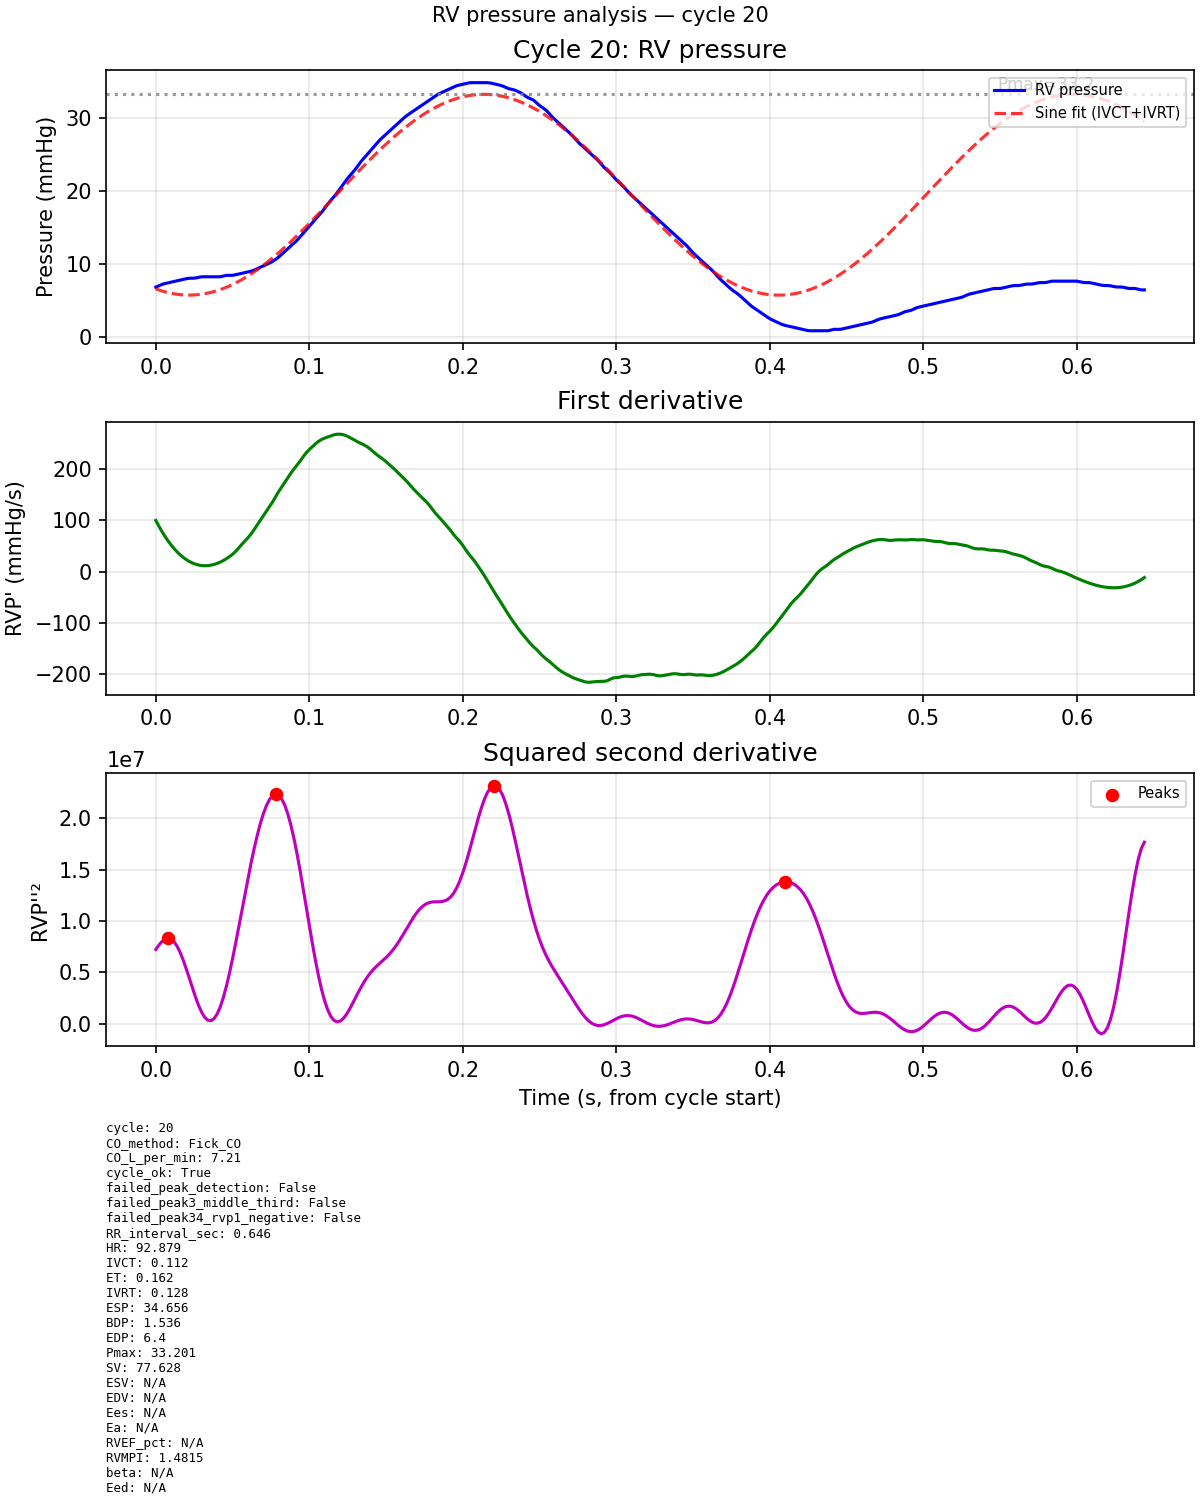
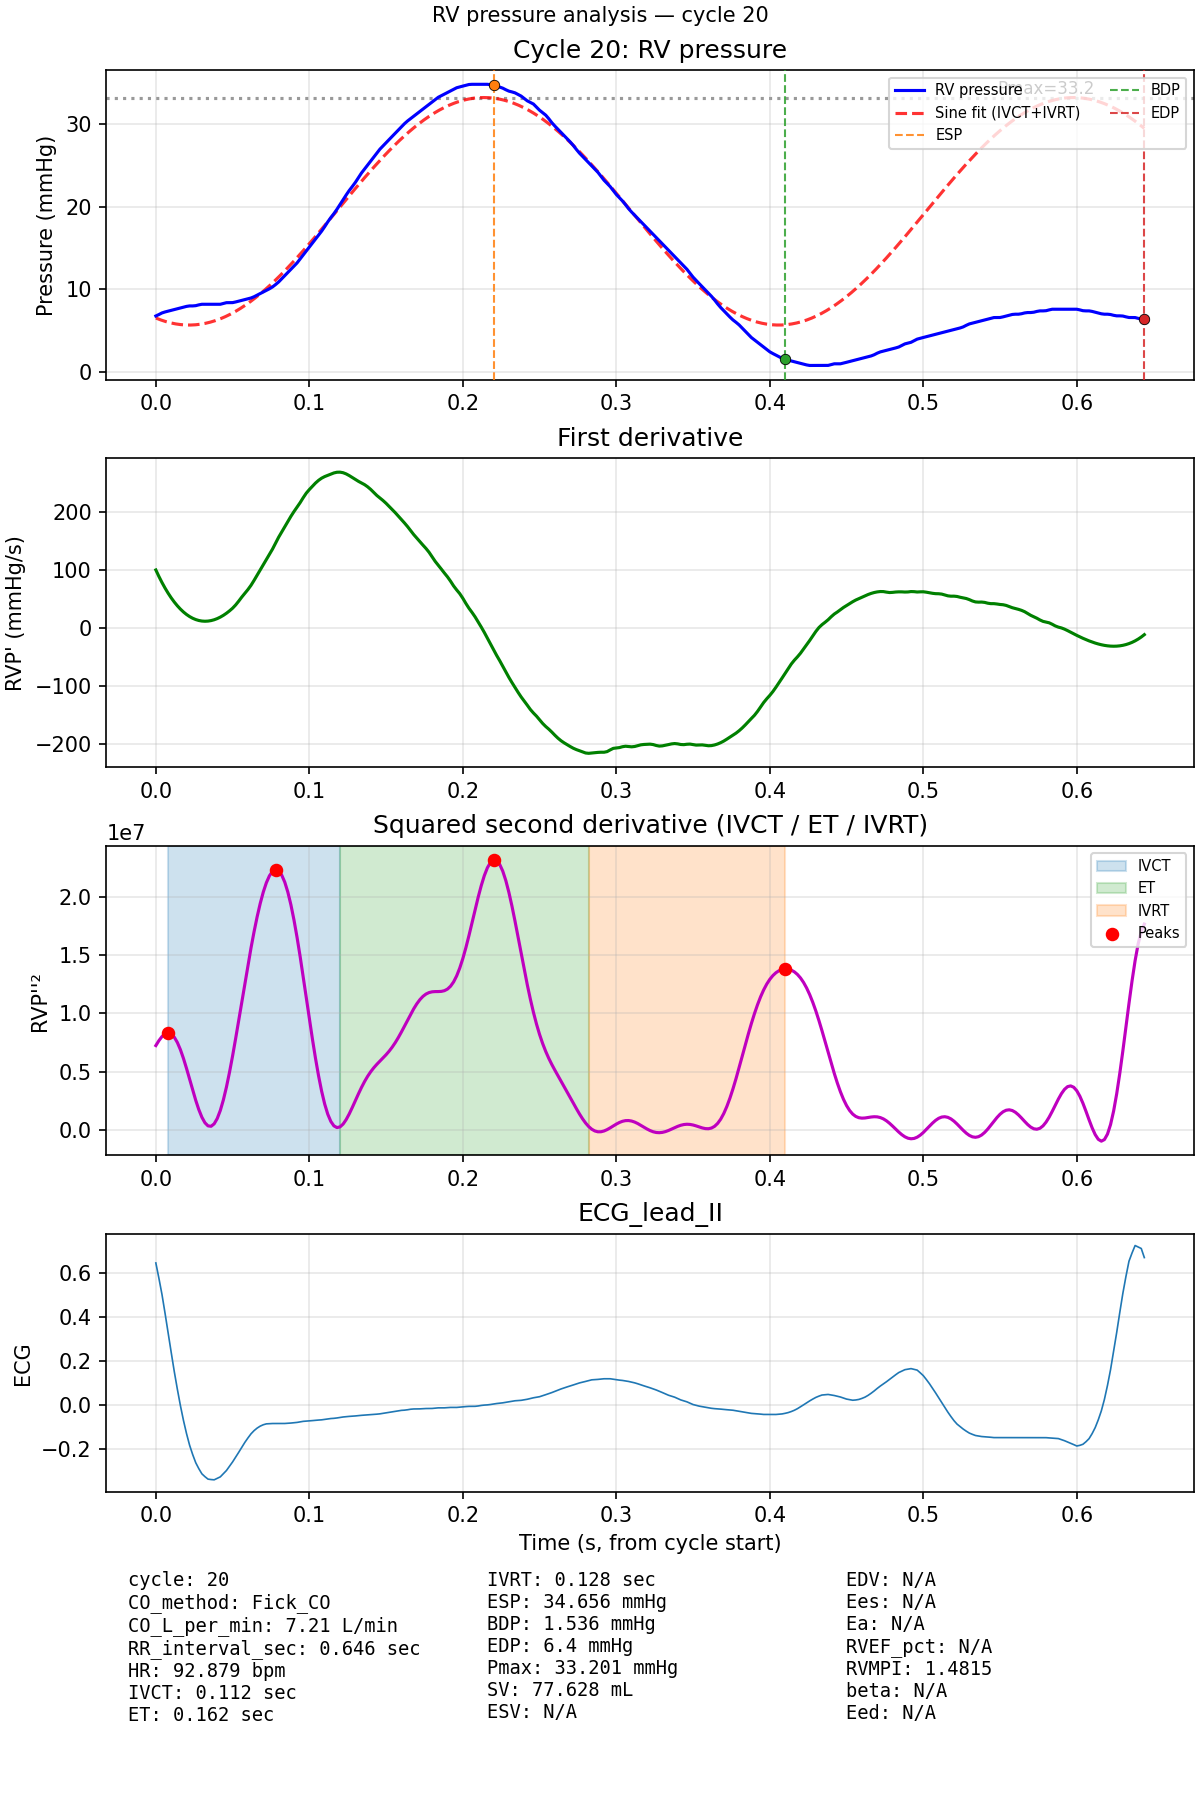
better annotations

diff --git a/scripts/analyze_rv_pressure.py b/scripts/analyze_rv_pressure.py
@@ -360,6 +360,11 @@ def _fit_pmax_ivct_ivrt(
         return np.nan, None, None
 
 
+# Keep b*max(esv,edv) below ~700 so np.exp does not overflow float64 (~709).
+_BETA_BRENTQ_HI_MAX = 10.0
+_BETA_EXP_ARG_CAP = 700.0
+
+
 def _solve_beta(esv: float, edv: float, edp_minus_bdp_plus_1: float) -> Optional[float]:
     """
     Solve for beta so P(V)=K*(exp(beta*V)-1) passes through (0,0), (ESV,1), (EDV, EDP-BDP+1)
@@ -371,9 +376,14 @@ def _solve_beta(esv: float, edv: float, edp_minus_bdp_plus_1: float) -> Optional
     def eq(b: float) -> float:
         return edp_minus_bdp_plus_1 * (np.exp(b * esv) - 1) - (np.exp(b * edv) - 1)
 
+    b_lo = 1e-6
+    vmax = max(esv, edv)
+    b_hi = min(_BETA_BRENTQ_HI_MAX, _BETA_EXP_ARG_CAP / vmax)
+    if b_hi <= b_lo:
+        return None
+
     try:
-        # beta positive, typically small
-        beta = brentq(eq, 1e-6, 10.0)
+        beta = brentq(eq, b_lo, b_hi)
         return float(beta)
     except Exception:
         return None
@@ -537,45 +547,46 @@ def segment_pressure_by_rr_with_fs(
     return segments
 
 
-_METRIC_KEYS_PNG: tuple[str, ...] = (
-    "cycle",
-    "CO_method",
-    "CO_L_per_min",
-    "cycle_ok",
-    "failed_peak_detection",
-    "failed_peak3_middle_third",
-    "failed_peak34_rvp1_negative",
-    "RR_interval_sec",
-    "HR",
-    "IVCT",
-    "ET",
-    "IVRT",
-    "ESP",
-    "BDP",
-    "EDP",
-    "Pmax",
-    "SV",
-    "ESV",
-    "EDV",
-    "Ees",
-    "Ea",
-    "RVEF_pct",
-    "RVMPI",
-    "beta",
-    "Eed",
+# Keys and unit suffixes for diagnostic PNG text (status flags omitted).
+_PNG_METRIC_KEYS_UNITS: tuple[tuple[str, str], ...] = (
+    ("cycle", ""),
+    ("CO_method", ""),
+    ("CO_L_per_min", "L/min"),
+    ("RR_interval_sec", "sec"),
+    ("HR", "bpm"),
+    ("IVCT", "sec"),
+    ("ET", "sec"),
+    ("IVRT", "sec"),
+    ("ESP", "mmHg"),
+    ("BDP", "mmHg"),
+    ("EDP", "mmHg"),
+    ("Pmax", "mmHg"),
+    ("SV", "mL"),
+    ("ESV", "mL"),
+    ("EDV", "mL"),
+    ("Ees", "mmHg/mL"),
+    ("Ea", "mmHg/mL"),
+    ("RVEF_pct", "%"),
+    ("RVMPI", ""),
+    ("beta", "1/mL"),
+    ("Eed", "mmHg/mL"),
 )
 
 
 def _metric_lines_for_png(row: dict[str, Any]) -> list[str]:
     lines: list[str] = []
-    for k in _METRIC_KEYS_PNG:
+    for k, unit in _PNG_METRIC_KEYS_UNITS:
         if k not in row:
             continue
         v = row[k]
         if v is None or (isinstance(v, (float, np.floating)) and np.isnan(float(v))):
             lines.append(f"{k}: N/A")
         elif isinstance(v, (float, np.floating)):
-            lines.append(f"{k}: {float(v):.5g}")
+            num = float(v)
+            if unit:
+                lines.append(f"{k}: {num:.5g} {unit}")
+            else:
+                lines.append(f"{k}: {num:.5g}")
         else:
             lines.append(f"{k}: {v}")
     return lines
@@ -602,7 +613,7 @@ def save_diagnostic_plot(
     metrics_row: dict[str, Any],
     ecg_lead_name: str,
 ) -> None:
-    """Save diagnostic plot: RVP (+ sine), RVP', RVP''², ECG; metrics in three columns below."""
+    """Save diagnostic plot: RVP (+ sine, ESP/BDP/EDP markers), RVP', RVP''² (IVCT/ET/IVRT spans), ECG; metrics below."""
     t, rvp, rvp1, rvp2_sq, peaks, pmax, t_fit, p_fit, idx_max_dp, idx_min_dp, ecg_seg = plot_data
     fig = plt.figure(figsize=(8, 12), layout="constrained")
     gs = fig.add_gridspec(5, 1, height_ratios=[3.0, 3.0, 3.0, 2.5, 2.2])
@@ -623,14 +634,31 @@ def save_diagnostic_plot(
     ax5.text(0.02, 0.98, col1, **_txt_kw)
     ax5.text(0.35, 0.98, col2, **_txt_kw)
     ax5.text(0.68, 0.98, col3, **_txt_kw)
-    ax1.plot(t, rvp, "b-", label="RV pressure")
+
+    peak1_idx = int(peaks[0])
+    peak3_idx = int(peaks[2])
+    peak4_idx = int(peaks[3])
+    edp_idx = len(rvp) - 1
+    t_p1 = t[peak1_idx]
+    t_mx = t[idx_max_dp]
+    t_mn = t[idx_min_dp]
+    t_p4 = t[peak4_idx]
+
+    ax1.plot(t, rvp, "b-", label="RV pressure", zorder=3)
     if t_fit is not None and p_fit is not None:
-        ax1.plot(t_fit, p_fit, "r--", alpha=0.8, label="Sine fit (IVCT+IVRT)")
+        ax1.plot(t_fit, p_fit, "r--", alpha=0.8, label="Sine fit (IVCT+IVRT)", zorder=2)
     if not np.isnan(pmax):
-        ax1.axhline(pmax, color="gray", linestyle=":", alpha=0.8)
+        ax1.axhline(pmax, color="gray", linestyle=":", alpha=0.8, zorder=1)
         ax1.text(t[-1] * 0.95, pmax, f"Pmax={pmax:.1f}", va="bottom", ha="right", fontsize=8)
+    for name, idx, c in (
+        ("ESP", peak3_idx, "C1"),
+        ("BDP", peak4_idx, "C2"),
+        ("EDP", edp_idx, "C3"),
+    ):
+        ax1.axvline(t[idx], color=c, linestyle="--", alpha=0.85, linewidth=1.0, label=name, zorder=4)
+        ax1.plot(t[idx], rvp[idx], "o", color=c, markersize=5, zorder=6, markeredgecolor="k", markeredgewidth=0.4)
     ax1.set_ylabel("Pressure (mmHg)")
-    ax1.legend(loc="upper right", fontsize=7)
+    ax1.legend(loc="upper right", fontsize=7, ncol=2)
     ax1.set_title(f"Cycle {cycle_num}: RV pressure")
     ax1.grid(True, alpha=0.3)
 
@@ -639,10 +667,16 @@ def save_diagnostic_plot(
     ax2.set_title("First derivative")
     ax2.grid(True, alpha=0.3)
 
-    ax3.plot(t, rvp2_sq, "m-")
+    if t_p1 < t_mx:
+        ax3.axvspan(t_p1, t_mx, alpha=0.22, color="tab:blue", zorder=0, label="IVCT")
+    if t_mx < t_mn:
+        ax3.axvspan(t_mx, t_mn, alpha=0.22, color="tab:green", zorder=0, label="ET")
+    if t_mn < t_p4:
+        ax3.axvspan(t_mn, t_p4, alpha=0.22, color="tab:orange", zorder=0, label="IVRT")
+    ax3.plot(t, rvp2_sq, "m-", zorder=2)
     ax3.scatter(t[peaks], rvp2_sq[peaks], c="red", s=30, zorder=5, label="Peaks")
     ax3.set_ylabel("RVP''²")
-    ax3.set_title("Squared second derivative")
+    ax3.set_title("Squared second derivative (IVCT / ET / IVRT)")
     ax3.legend(loc="upper right", fontsize=7)
     ax3.grid(True, alpha=0.3)
 

diff --git a/README.md b/README.md
@@ -198,7 +198,7 @@ All four indices must be strictly increasing. If any window has no peak or order
 ### Outputs
 
 - **`csv_files/{stem}.csv`**: one row per cardiac cycle attempt with columns such as cycle index, `cycle_ok`, `failed_peak_detection`, `failed_peak3_middle_third`, `failed_peak34_rvp1_negative`, hemodynamic intervals, volumes/pressures where fitted, and metadata (`CO_method`, `CO_L_per_min`, etc.).
-- **`png_files/{stem}_{n}.png`**: four stacked waveform panels (RV pressure + optional sine fit, RVP′, \((\mathrm{RVP}'')^2\) with detected peaks, and the selected **ECG lead** for that cycle) plus a **text block** below in **three columns** with larger monospace text, listing the same per-cycle metrics and CO inputs for cycles with `cycle_ok` True.
+- **`png_files/{stem}_{n}.png`**: four stacked waveform panels (RV pressure + optional sine fit, RVP′, \((\mathrm{RVP}'')^2\) with detected peaks, and the selected **ECG lead** for that cycle) plus a **text block** below in **three columns** with larger monospace text. The text lists hemodynamic metrics and CO inputs **with units** (status columns such as `cycle_ok` / `failed_*` are omitted; they remain in the CSV).
 
 ---
 
